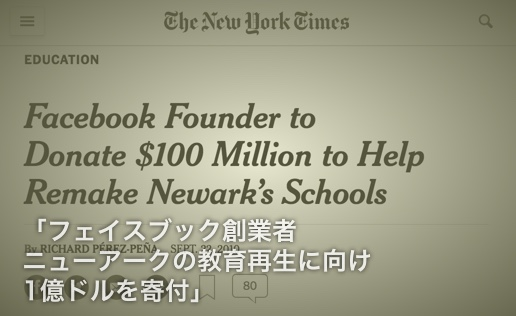
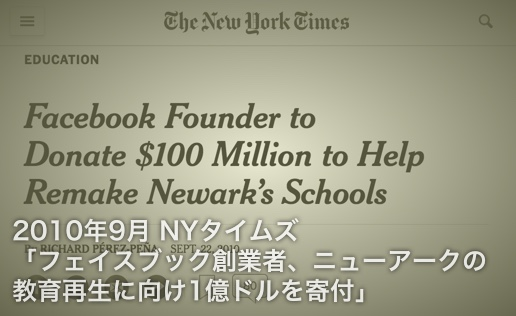
:pencil:

Changed region(s): [[0.0, 0.6835, 0.9612, 0.9684]]

diff --git a/chapter-1.md b/chapter-1.md
@@ -232,8 +232,13 @@
 
 結論から言うと、ザッカーバーグのニューアークへの寄付は大失敗に終わった。後に詳しく話すが、1億ドルはニューアークの社会問題を解決するどころか、かえって悪化させてしまったのである。
 
+<p><figure>
+  <img src="the-prize-draft-images/nytimes-second-article.jpg" />
+  <figcaption><a href="https://www.nytimes.com/2015/08/27/business/dealbook/the-melting-of-mark-zuckerbergs-donation-to-newark-schools.html">当時のNYタイムスの記事。</a></figcaption>
+</figure></p>
+
 ザッカーバーグのヒーロー初体験は、彼のこれまでの輝かしい経歴において最大級の黒歴史となった。後に彼は[インタビュー](http://www.edweek.org/ew/articles/2016/03/07/zuckerberg-talks-personalized-learning-philanthropy-and-lessons.html)で、「ニューアークでやったことは繰り返さないようにする」とも答えている。
 
-いったい、ニューアークでどんな失敗が起きたのか。それを、この記事で紐解いていこうと思う。
+いったい、ニューアークでどんな失敗が起きたのか。日本でよくある「政府のバラマキの失敗」のように、自治体が「いきなりお金をくれても、どう使えばいいか分からない」となり、結果的に無駄遣いに走ってしまったのだろうか。それとも、何か別のことが起きたのか。この記事で紐解いていきたい。
 
-「ザッカーバーグの黒歴史を知って何になるんだ」と思う日本のみなさまも、騙されたと思って読んでほしい。これからの日本を考えるヒントが見つかるかもしれないから。
+「ザッカーバーグの黒歴史を知って何になるんだ」と思うみなさまも、騙されたと思って読んでほしい。これからの日本を考えるヒントが見つかるかもしれないから。
